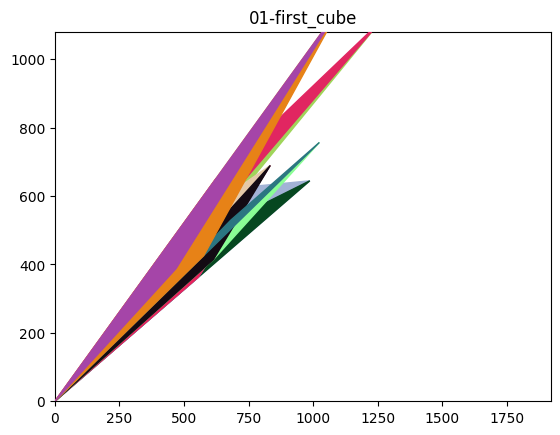
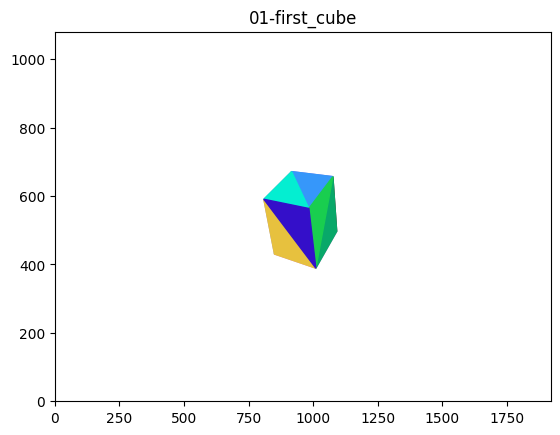
Urenderer_Feito

Changed region(s): [[0.0911, 0.0598, 0.6679, 0.9264], [0.5464, 0.3287, 0.5768, 0.3586]]

diff --git a/src/urenderer/renderer/pyplot_renderer.py b/src/urenderer/renderer/pyplot_renderer.py
@@ -75,8 +75,8 @@ class PyplotRenderer(Renderer):
         # Projete o triângulo, combinando a matriz de transformação do modelo,
         # view matriz (self._view_matrix) e a matriz de projeção (self._projection_matrix)
 
-        triangle_proj = self._projection_matrix @ self._view_matrix @ model_transformation
-
+        triangle_transformation = (self._projection_matrix @ self._view_matrix @ model_transformation).T
+        triangle_proj = triangle @ triangle_transformation
         #########################################################################
 
         return triangle_proj
